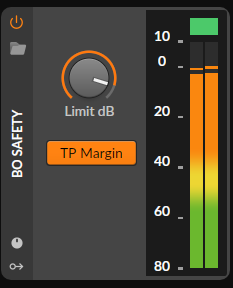
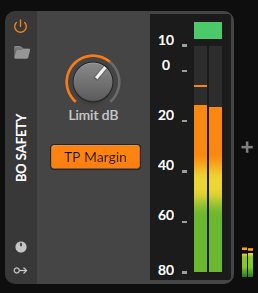
Landing page: bo Safety next to bo Master, bo Curve below
Claude-Session: https://claude.ai/code/session_01SVGb34MW3UgdKmYWerntwz

Changed region(s): [[0.0, 0.0, 0.9914, 1.0], [0.2403, 0.1562, 0.5107, 0.4375], [0.7511, 0.2188, 0.7811, 0.25]]

diff --git a/README.md b/README.md
@@ -3,8 +3,12 @@
 Mods and devices for Bitwig Studio. They run with the Patchbay mod loader (BML) on Bitwig 6.1.4 and 6.1.7 for Windows.
 
 <p>
-  <img src="mods/bo-master/media/bo-master-panel.png" alt="bo Master" height="520">
+  <img src="mods/bo-master/media/bo-master-panel.png" alt="bo Master" height="520" align="top">
   &nbsp;
+  <img src="devices/bo-safety/media/bo-safety.png" alt="bo Safety" align="top">
+</p>
+
+<p>
   <img src="devices/bo-curve/media/bo-curve.gif" alt="bo Curve" width="420">
 </p>
 
